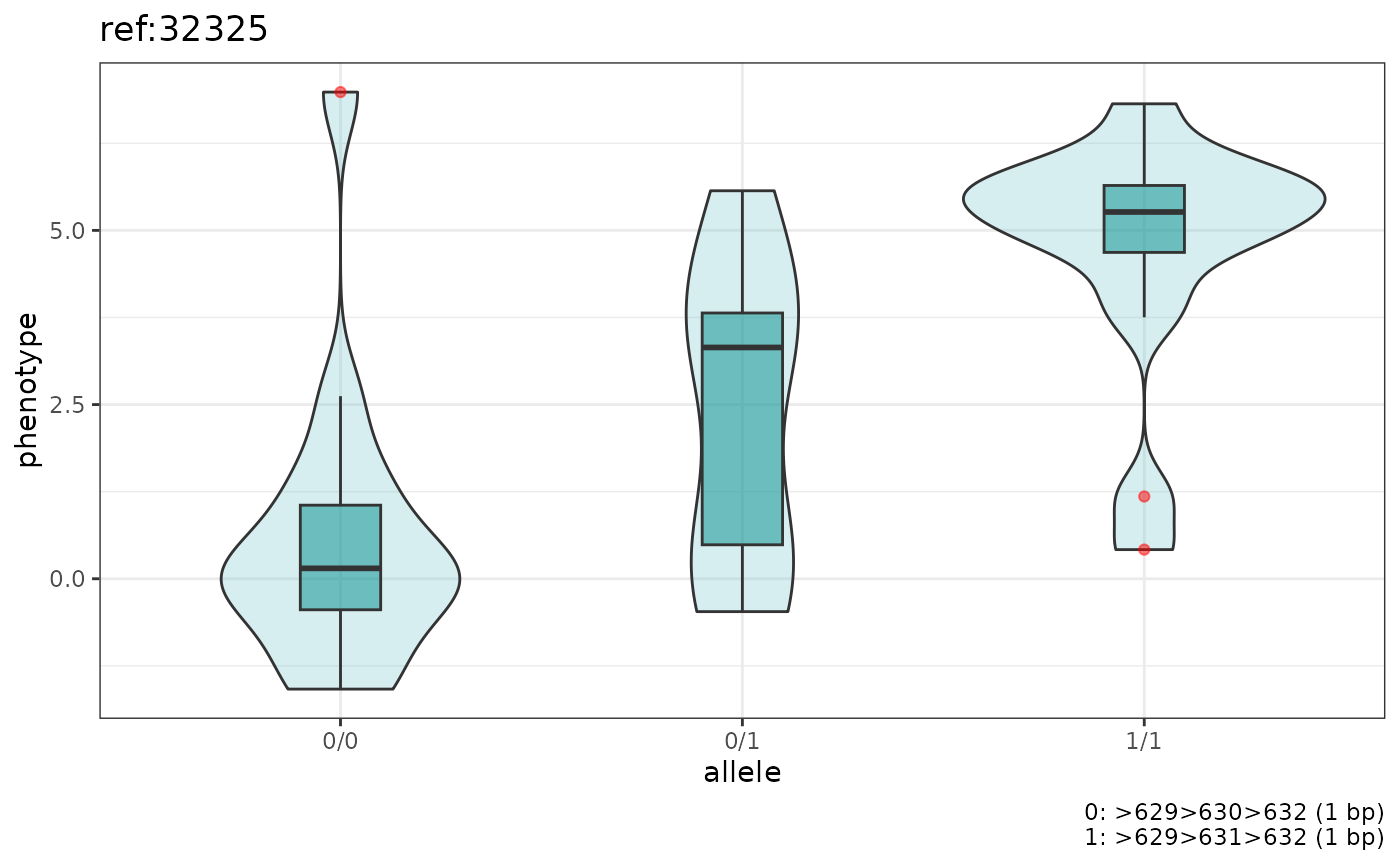
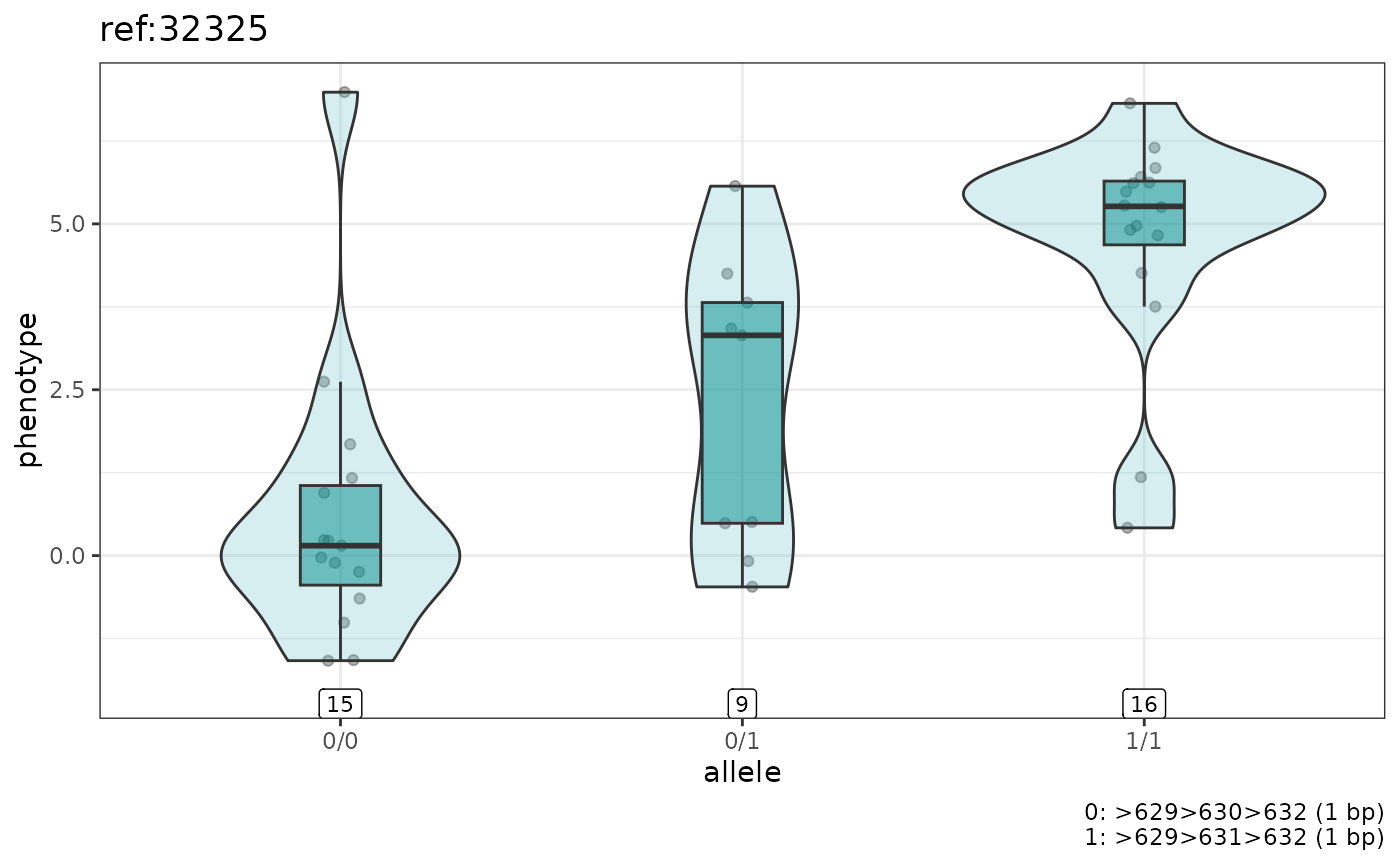
Deploying to gh-pages from @ Pa-Tou/stoat_plot@35e02249bea65887a5e6ef10324b08715e64c21a 🚀

diff --git a/reference/genotype_boxplots.html b/reference/genotype_boxplots.html
@@ -74,7 +74,8 @@ data.frame could be one row of the association data.frame loaded by
 <span>  <span class="va">phenotype</span>,</span>
 <span>  <span class="va">assoc_query</span>,</span>
 <span>  output_file <span class="op">=</span> <span class="cn">NULL</span>,</span>
-<span>  by_allele <span class="op">=</span> <span class="cn">FALSE</span></span>
+<span>  by_allele <span class="op">=</span> <span class="cn">FALSE</span>,</span>
+<span>  show_n <span class="op">=</span> <span class="cn">TRUE</span></span>
 <span><span class="op">)</span></span></code></pre></div>
     </div>
 
@@ -100,6 +101,10 @@ data.frame could be one row of the association data.frame loaded by
 
 <dt id="arg-by-allele">by_allele<a class="anchor" aria-label="anchor" href="#arg-by-allele"></a></dt>
 <dd><p>group the samples by allele (an heterozygous sample would be shown twice). Default: FALSE (i.e. grouped by genotype)</p></dd>
+
+
+<dt id="arg-show-n">show_n<a class="anchor" aria-label="anchor" href="#arg-show-n"></a></dt>
+<dd><p>should the sample size be shown at the bottom? Default is TRUE.</p></dd>
 
 </dl></div>
     <div class="section level2">

diff --git a/articles/using-custom-test.html b/articles/using-custom-test.html
@@ -59,7 +59,7 @@
                         <h4 data-toc-skip class="author">Jean
 Monlong</h4>
             
-            <h4 data-toc-skip class="date">2026-07-15</h4>
+            <h4 data-toc-skip class="date">2026-08-17</h4>
       
 
       <div class="d-none name"><code>using-custom-test.Rmd</code></div>

diff --git a/articles/intro.html b/articles/intro.html
@@ -59,7 +59,7 @@
                         <h4 data-toc-skip class="author">Jean
 Monlong</h4>
             
-            <h4 data-toc-skip class="date">2026-07-15</h4>
+            <h4 data-toc-skip class="date">2026-08-17</h4>
       
 
       <div class="d-none name"><code>intro.Rmd</code></div>

diff --git a/reference/genotype_boxplots.md b/reference/genotype_boxplots.md
@@ -20,7 +20,8 @@ genotype_boxplots(
   phenotype,
   assoc_query,
   output_file = NULL,
-  by_allele = FALSE
+  by_allele = FALSE,
+  show_n = TRUE
 )
 ```
 
@@ -48,6 +49,10 @@ genotype_boxplots(
 
   group the samples by allele (an heterozygous sample would be shown
   twice). Default: FALSE (i.e. grouped by genotype)
+
+- show_n:
+
+  should the sample size be shown at the bottom? Default is TRUE.
 
 ## Value
 
